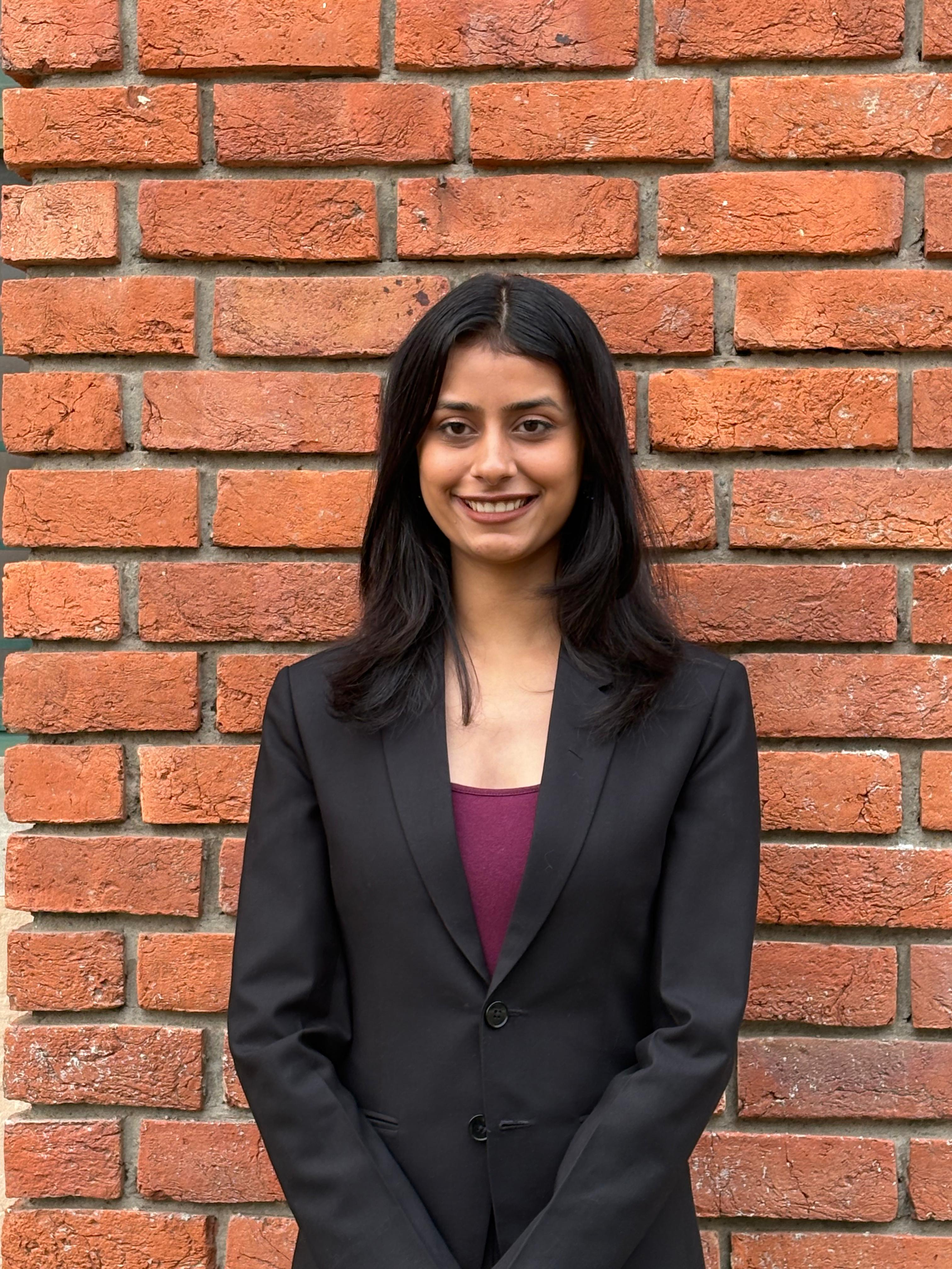
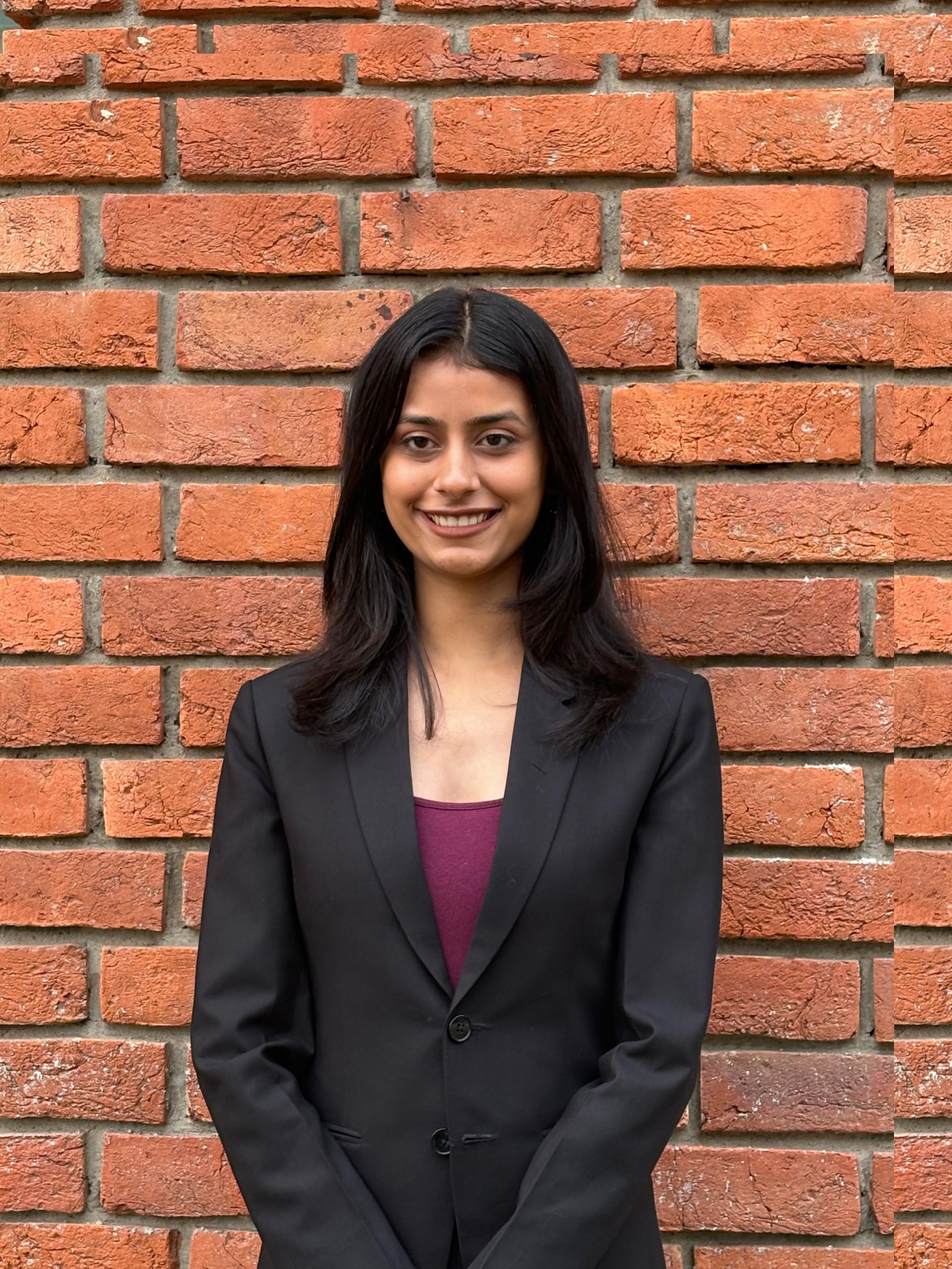
new update

diff --git a/src/pages/Home.tsx b/src/pages/Home.tsx
@@ -1,22 +1,38 @@
-import React from 'react';
-import { motion } from 'framer-motion';
+import React, { useState, useEffect } from "react";
+import { motion } from "framer-motion";
 
 const Home = () => {
-  const profileImage = "/sans.JPG";
+  const profileImage = "/sans.JPG"; // Image without specs
+  const hoverImage = "/sans2.JPG"; // Image with specs
+
+  const [isToggled, setIsToggled] = useState(false);
+  const [isMobile, setIsMobile] = useState(false);
+
+  // Check if the user is on a mobile screen
+  useEffect(() => {
+    const checkScreenSize = () => {
+      setIsMobile(window.innerWidth < 768);
+    };
+
+    checkScreenSize(); // Initial check
+    window.addEventListener("resize", checkScreenSize); // Listen for screen size changes
+
+    return () => window.removeEventListener("resize", checkScreenSize);
+  }, []);
 
   const containerVariants = {
     hidden: { opacity: 0 },
     visible: {
       opacity: 1,
       transition: {
-        staggerChildren: 0.3
-      }
-    }
+        staggerChildren: 0.3,
+      },
+    },
   };
 
   const itemVariants = {
     hidden: { opacity: 0, y: 20 },
-    visible: { opacity: 1, y: 0 }
+    visible: { opacity: 1, y: 0 },
   };
 
   return (
@@ -27,18 +43,17 @@ const Home = () => {
       className="min-h-screen pt-16 pb-20 px-4"
     >
       <div className="max-w-6xl mx-auto grid grid-cols-1 md:grid-cols-2 gap-8 items-center">
-        <motion.div
-          variants={itemVariants}
-          className="space-y-6"
-        >
+        <motion.div variants={itemVariants} className="space-y-6">
           <h1 className="text-6xl font-bold leading-tight">
-            Sanskriti<br />
-            <span className="text-yellow-400">Madahar</span><br />
+            Sanskriti
+            <br />
+            <span className="text-yellow-400">Madahar</span>
+            <br />
             MBA Scholar
           </h1>
           <p className="text-xl">
-            MBA Scholar specializing in Digital Transformation
-            and Strategic Business Innovation
+            MBA Scholar specializing in Digital Transformation and Strategic
+            Business Innovation
           </p>
           <motion.button
             whileHover={{ scale: 1.05 }}
@@ -49,24 +64,28 @@ const Home = () => {
           </motion.button>
         </motion.div>
 
+        {/* Image Section with Toggle Logic */}
         <motion.div
           variants={itemVariants}
-          className="relative"
+          className="relative cursor-pointer text-center"
+          onMouseEnter={() => !isMobile && setIsToggled((prev) => !prev)} // Toggle on hover (desktop)
+          onClick={() => isMobile && setIsToggled((prev) => !prev)} // Toggle on tap (mobile)
         >
-          <motion.div
-            className="absolute inset-0 bg-yellow-300"
-            initial={{ scale: 0 }}
-            animate={{ scale: 1 }}
-            transition={{ delay: 0.5 }}
-          />
           <motion.img
-            src={profileImage}
+            src={isToggled ? hoverImage : profileImage}
             alt="Sanskriti Madahar"
-            className="relative z-10 w-full h-[400px] object-cover object-center"
-            style={{ transform: 'translateX(-5px) translateY(20px)' }}
-            whileHover={{ scale: 1.02 }}
-            transition={{ duration: 0.3 }}
+            className="relative z-10 w-full h-[400px] object-cover object-center transition-opacity duration-500 ease-in-out"
           />
+          {/* Dynamic Instruction Text Below the Image */}
+          <p className="mt-3 text-lg text-gray-500">
+            {isToggled
+              ? isMobile
+                ? "Tap to blind me!"
+                : "Hover to blind me!"
+              : isMobile
+                ? "Tap to give me sight!"
+                : "Tap to blind me!"}
+          </p>
         </motion.div>
       </div>
 
